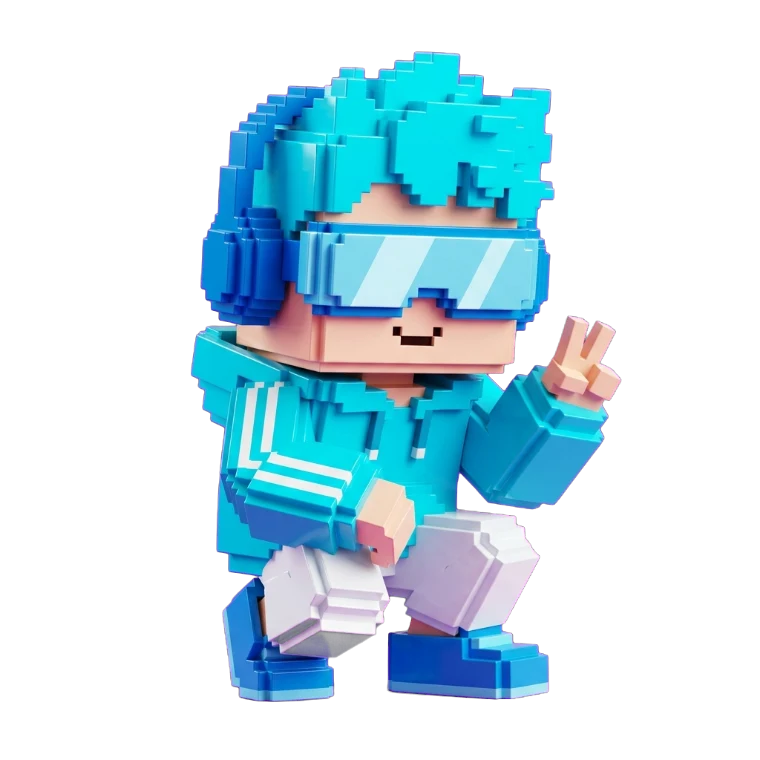
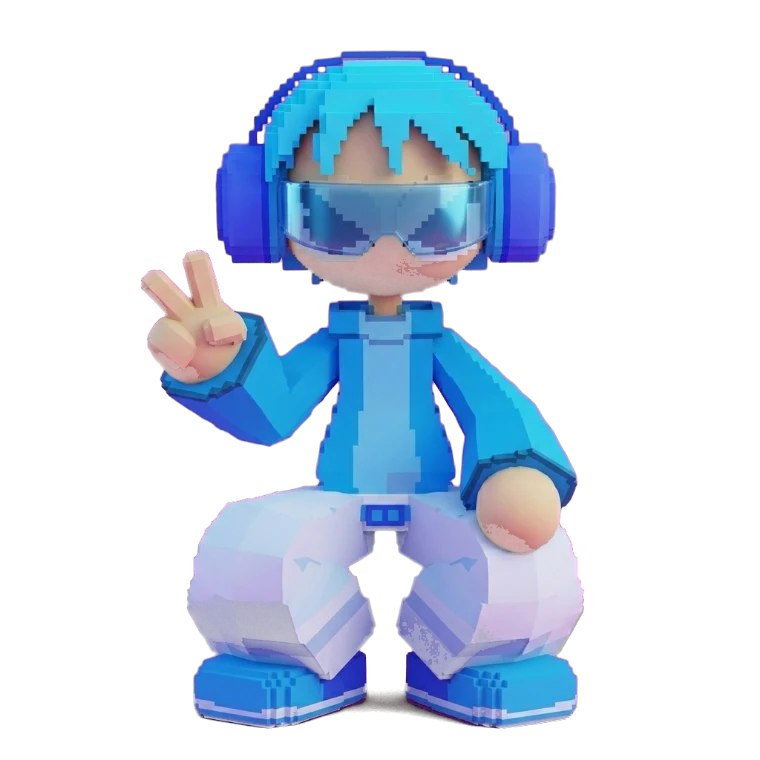
La mascota, ahora sí igual a la foto: con la referencia y no con palabras
Las ocho poses de antes eran cubitos de voxels. El personaje que trajo el dueño
tiene el cuerpo SUAVE y redondeado —mangas que caen, pantalón ancho, manos
redondas sin dedos— y sólo el pelo y el visor llevan el escalonado de píxeles.
Describir eso con palabras no acierta: pedir «voxel art, blocky cubic pixels»
devuelve exactamente lo que dice.

`submit_image_generation` acepta `source_urls`. Pasándole la propia foto del
dueño salió igual al primer intento. Son URLs y no archivos, así que la
referencia se publicó un rato en el mismo sitio bajo un nombre al azar, se
generaron las ocho, y se sacó en el despliegue siguiente.

La burbuja necesitó una vuelta más: pedirla «iridiscente» devolvió una esfera
negra y turbia. Se arregló nombrando el defecto en vez de insistir con el
adjetivo lindo — «thin bright transparent film, almost invisible, NOT dark and
NOT black».

Claude-Session: https://claude.ai/code/session_0192Hek6GJ1Bppe7eumcE4bW

diff --git a/frutiger-aero/LEEME.md b/frutiger-aero/LEEME.md
@@ -48,11 +48,16 @@ Son WebP de 760x760 **con canal alfa**, 44–54 KB cada una. `transparent: true`
 devuelve PNG con alfa de verdad, y el canvas de Playwright lo conserva al pasar
 a WebP.
 
-Lo que las hace parecer el mismo personaje en las ocho es repetir **la misma
-descripción física completa** —pelo celeste de píxeles, visor espejado,
-auriculares, buzo grande, pantalón blanco, zapatillas azules— en cada prompt, y
-cambiar sólo la pose. Con una descripción corta («el personaje de antes,
-saludando») salen ocho personajes distintos.
+**Salen de una imagen de referencia, no de una descripción.** La primera vuelta
+se hizo describiendo al personaje con palabras y salió un cubito de voxels: el
+cuerpo es **suave y redondeado** —mangas que caen, pantalón ancho, manos
+redondas sin dedos— y sólo el pelo y el visor tienen el escalonado de píxeles.
+Eso, en palabras, no se acierta.
+
+`submit_image_generation` acepta `source_urls`, que son **URLs y no archivos**.
+La referencia se publicó un rato en el propio sitio, bajo un nombre al azar, se
+generaron las ocho, y se sacó en el despliegue siguiente. Con la referencia
+salieron iguales a la primera.
 
 En la página va `m-saludando`, con un flote de cinco segundos y medio que se
 apaga con `prefers-reduced-motion`.
